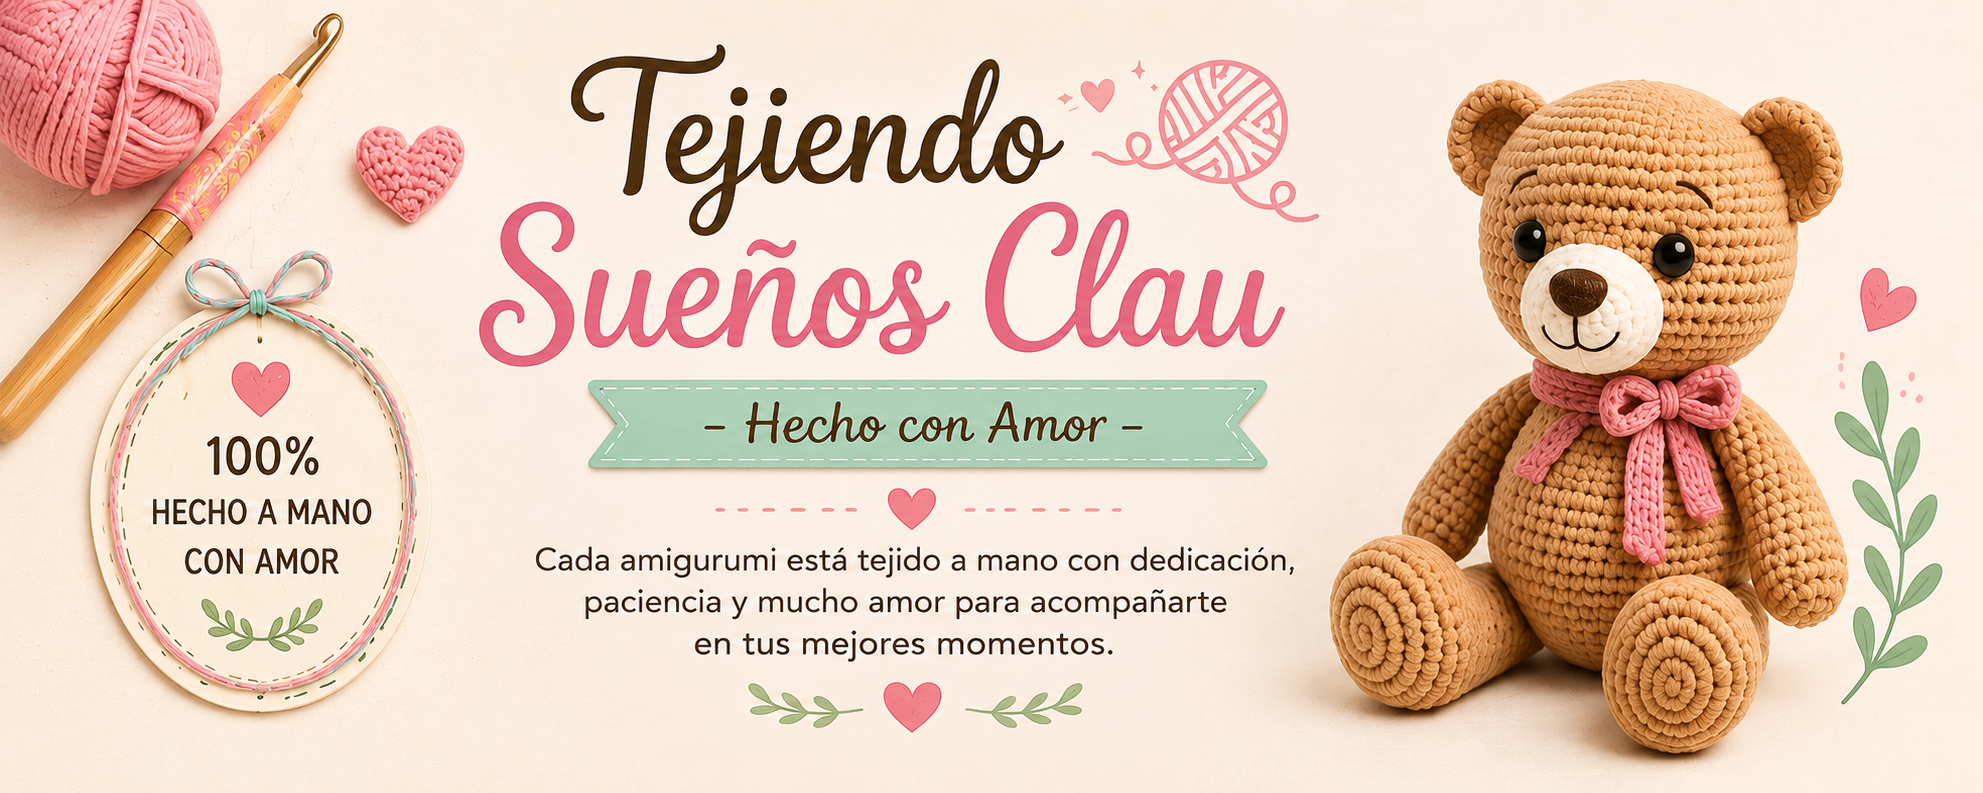
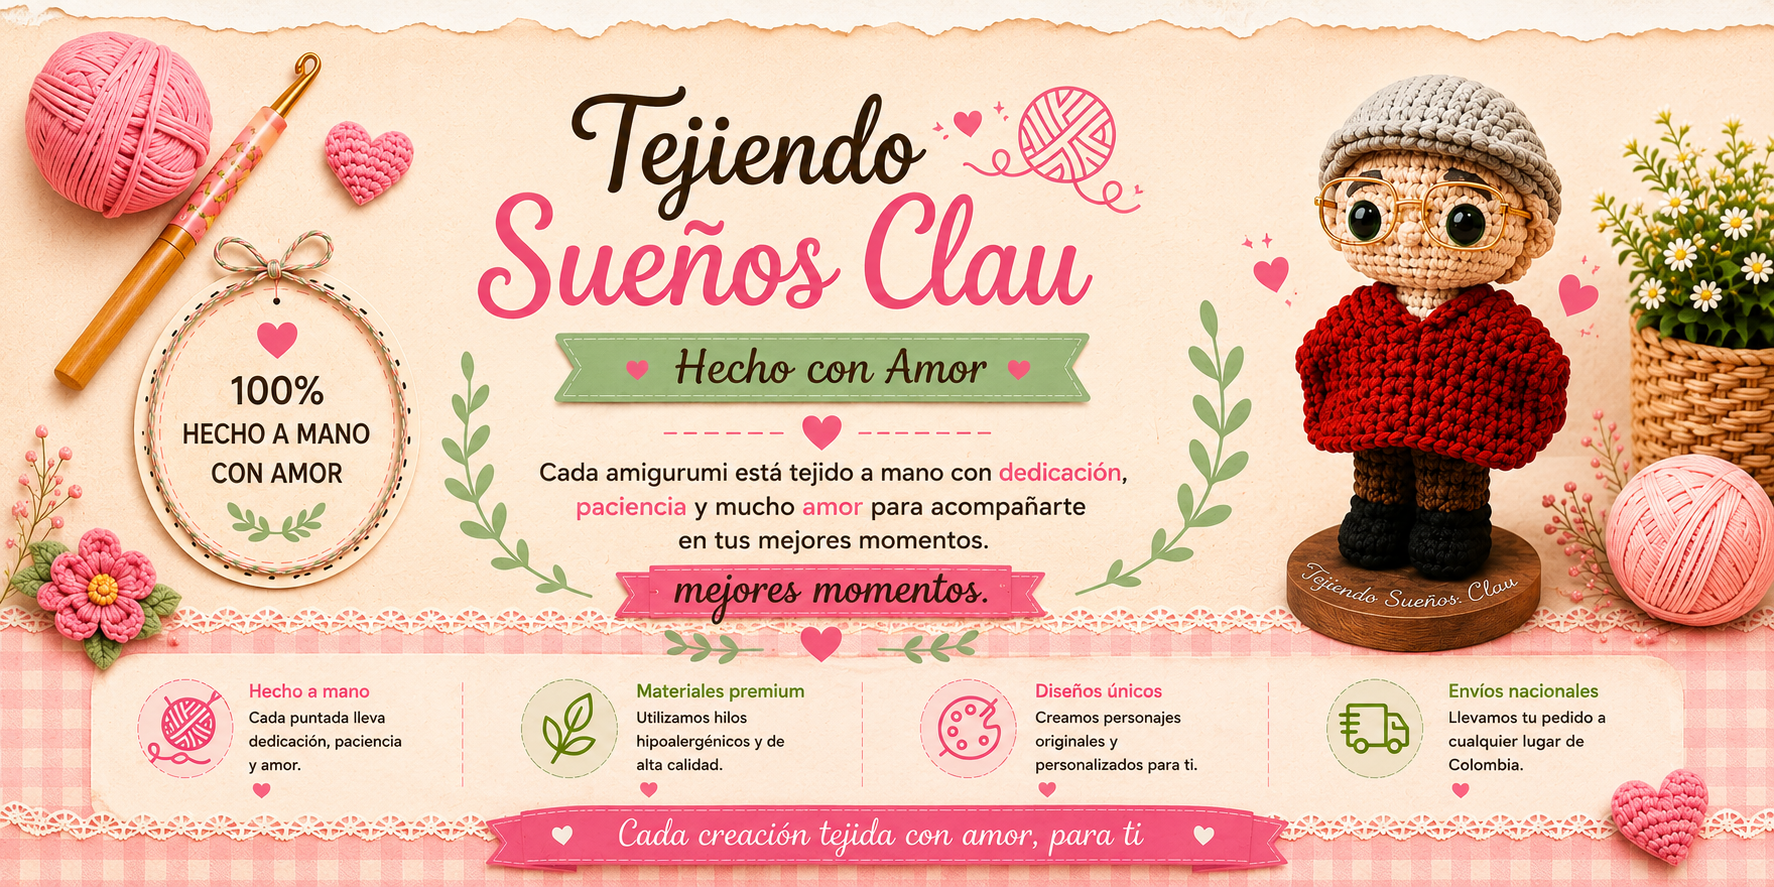
Mejoré el diseño de la página principal

diff --git a/css/style.css b/css/style.css
@@ -1,15 +1,12 @@
 /* ENCABEZADO */
 .header-banner{
     width:100%;
-    aspect-ratio:1983 / 793;   /* Proporción de tu imagen */
+    aspect-ratio:1983 / 930;   /* Proporción de tu imagen */
 
-    background-image:url("../img/fondo.jpg");
+    background-image:url("../img/fondo.png");
     background-repeat:no-repeat;
     background-position:center;
     background-size:cover;
-
-    background-color:#fdf8f3;
-
     display:flex;
     justify-content:flex-end;
     align-items:flex-start;
